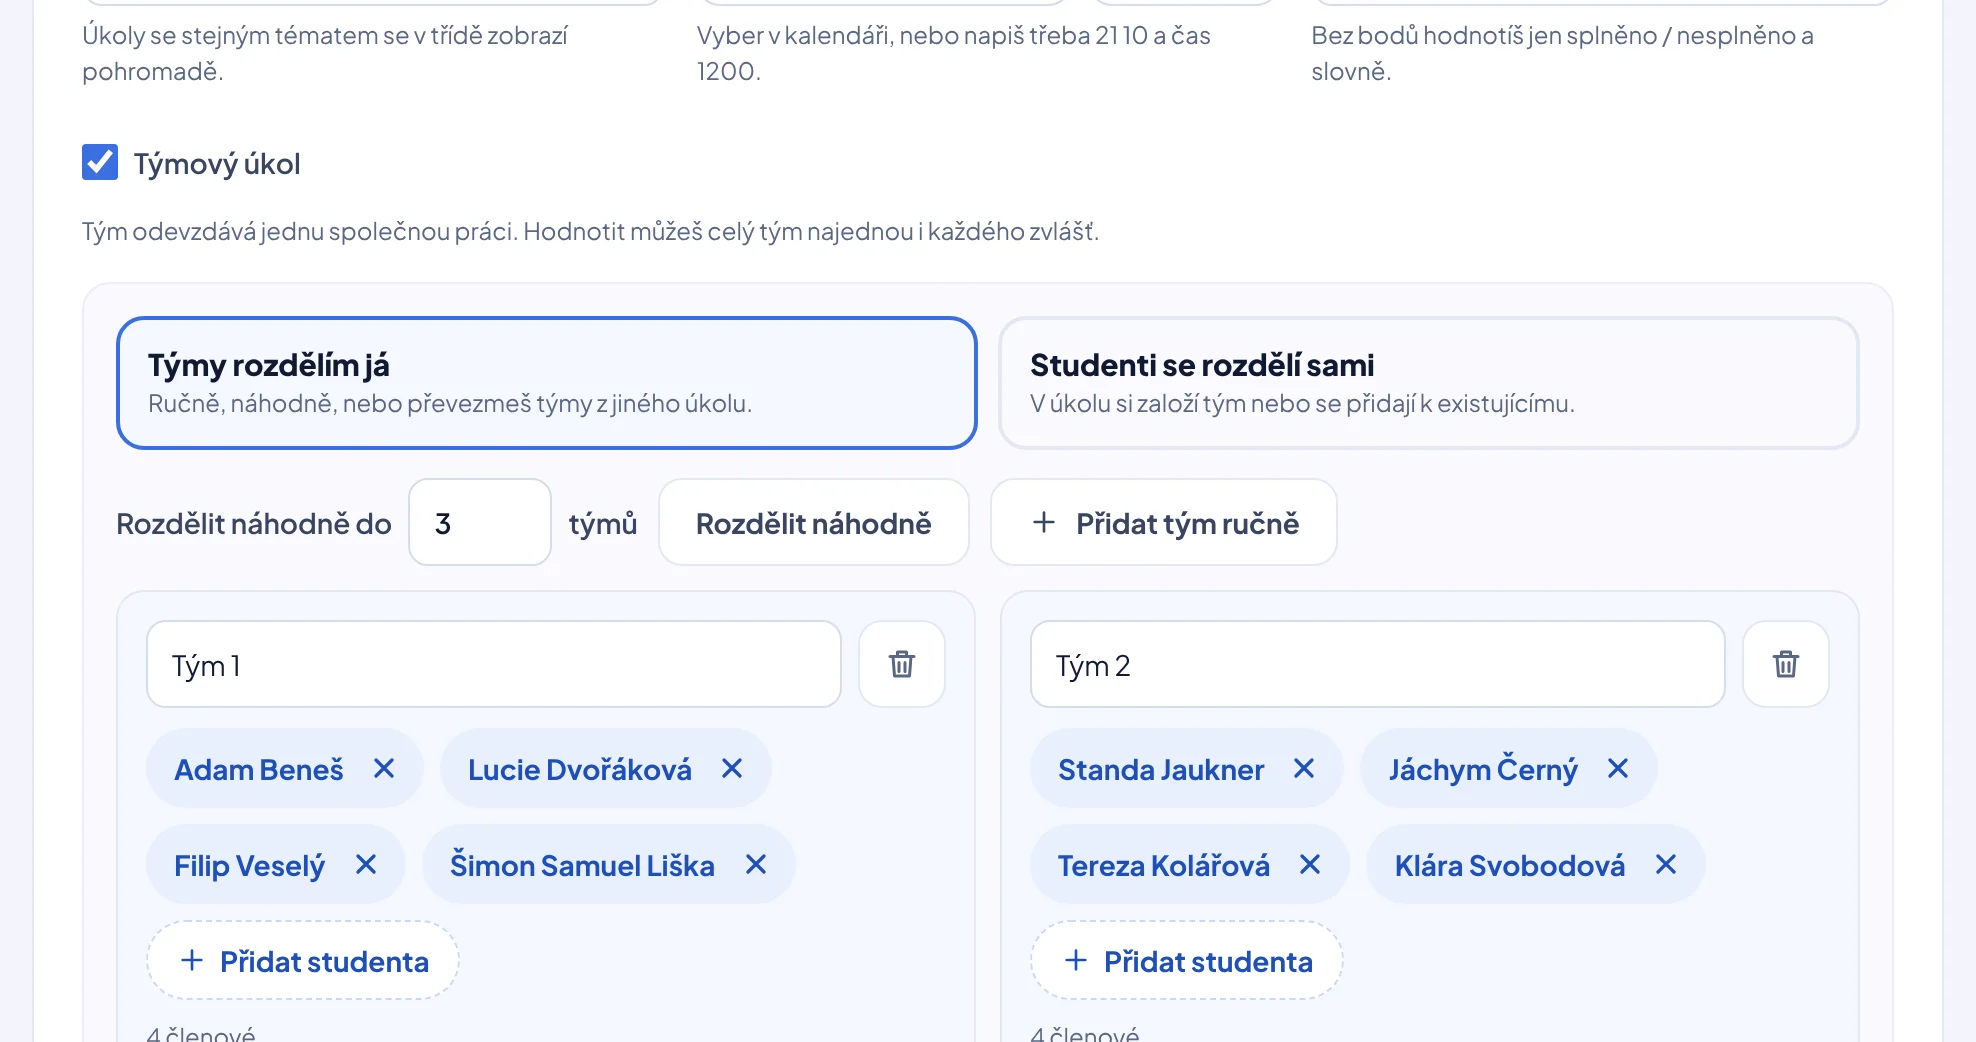
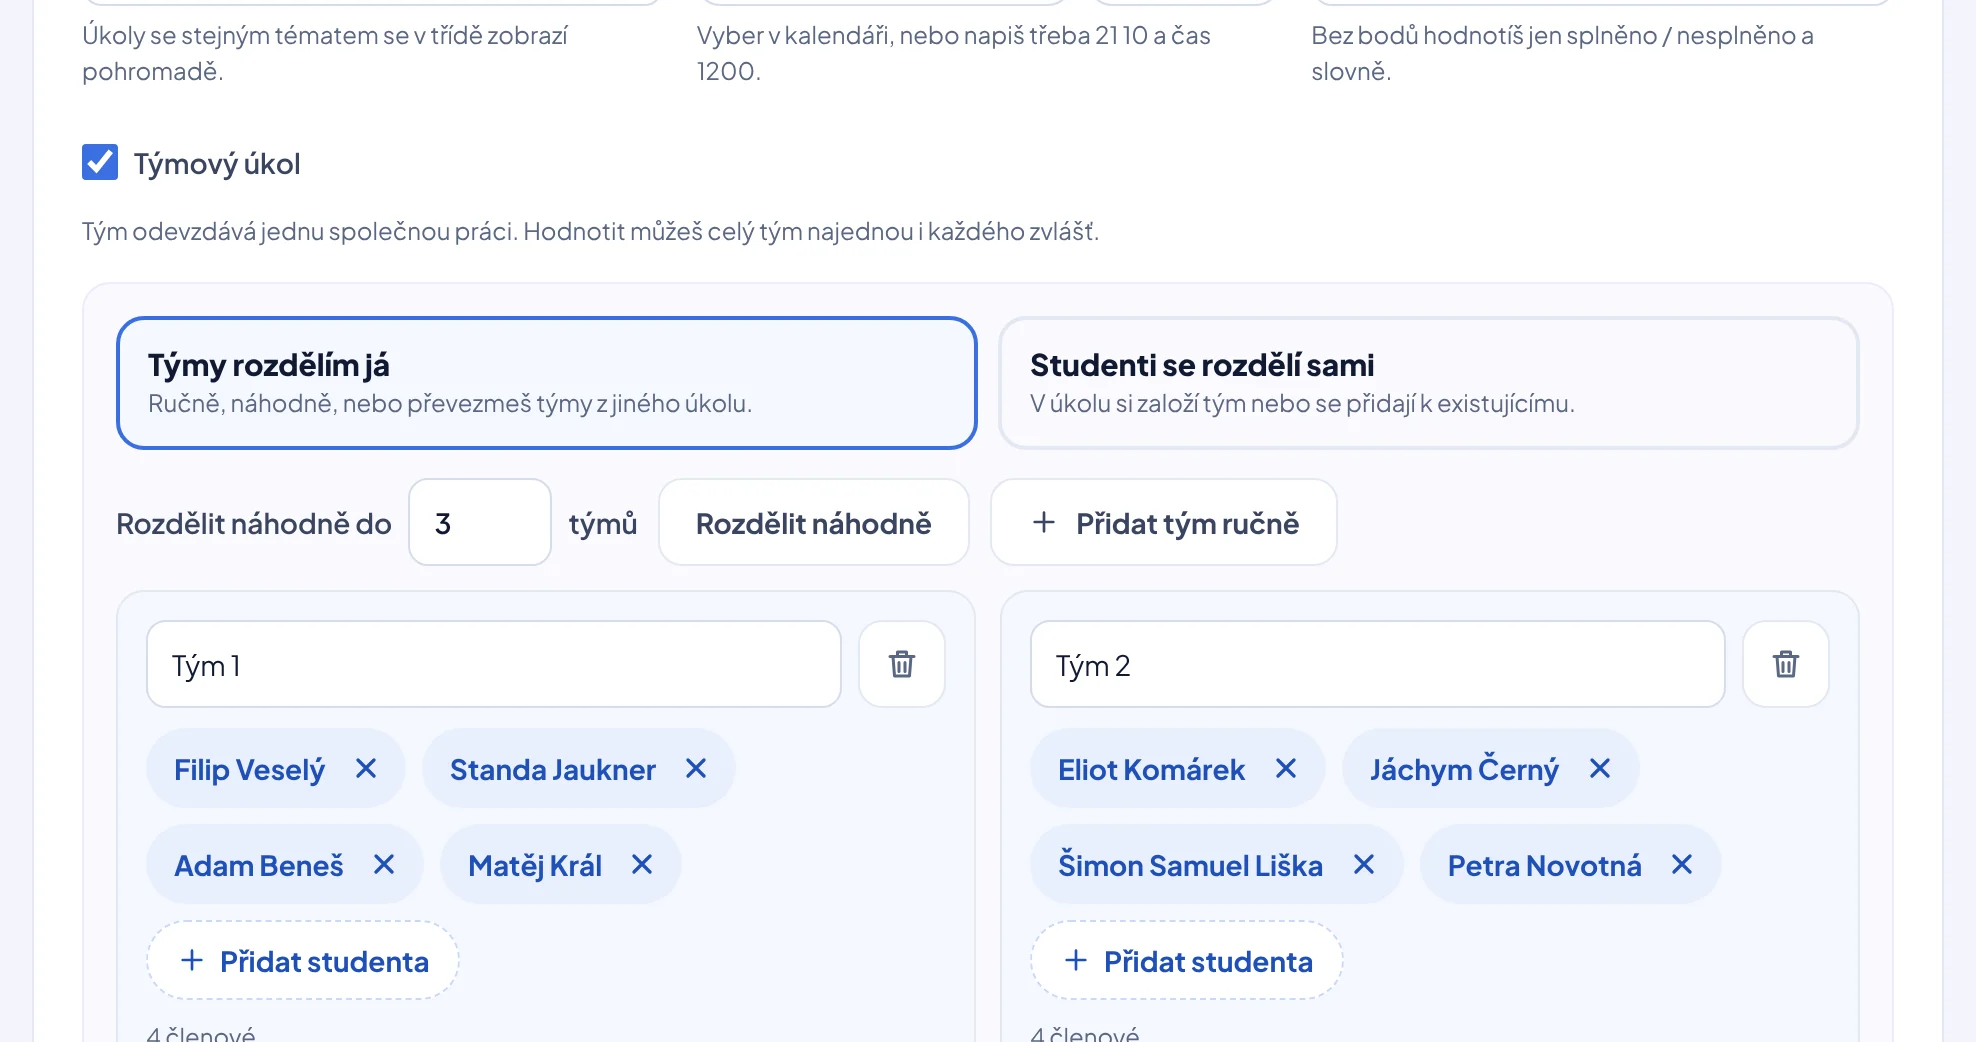
Nápověda: textové odkazy zvýrazněné jako zvýrazňovač pod textem, rámeček nezasahuje do okolí
Claude-Session: https://claude.ai/code/session_01S4k3G4RvgMHKPCyowCDzNN

diff --git a/scripts/help-shots.ts b/scripts/help-shots.ts
@@ -29,7 +29,7 @@ export type ShotFrames = {
   /** 0 = před akcí, další = psaní nebo stav po kliknutí */
   frames: string[];
   /** Prvek v procentech výřezu */
-  target: { x: number; y: number; w: number; h: number; r?: number } | null;
+  target: { x: number; y: number; w: number; h: number; r?: number; bare?: boolean } | null;
   action: "click" | "point" | "type" | "select" | "none";
   /** Psaní: text a vzhled obsahu pole, prohlížeč ho pak dopisuje po písmenech */
   typing?: HelpTyping;
@@ -131,7 +131,22 @@ async function shoot(page: Page, slug: string, index: number, shot: HelpShot): P
   let areaBox = (await area.boundingBox())!;
   const tBox = target ? await target.boundingBox() : null;
   // Zaoblení prvku, ať zvýraznění sedí přesně na jeho okraji.
-  const tRadius = target ? await target.evaluate((el) => parseFloat(getComputedStyle(el).borderTopLeftRadius) || 0) : 0;
+  // Prvek bez vlastního rámečku a pozadí (textový odkaz): místo rámečku zvýrazňovač pod textem.
+  const tStyle = target
+    ? await target.evaluate((el) => {
+        const cs = getComputedStyle(el);
+        const plain = !(parseFloat(cs.borderTopWidth) > 0) && /rgba\(0, 0, 0, 0\)|transparent/.test(cs.backgroundColor);
+        // Jen textový odkaz nebo tlačítko vzhledu odkazu (ne ikona, ne řádek seznamu, ne pole formuláře).
+        const textual =
+          (el.textContent ?? "").trim().length > 0 &&
+          !el.querySelector("input, select, textarea, svg, img") &&
+          el.getBoundingClientRect().height < 48;
+        const bare = plain && textual;
+        return { radius: parseFloat(cs.borderTopLeftRadius) || 0, bare };
+      })
+    : { radius: 0, bare: false };
+  const tPad = tStyle.bare ? 2 : 0;
+  const tRadius = tStyle.bare ? 4 : tStyle.radius;
 
   // Snímky celé obrazovky; výřez se spočítá z oblasti před i po akci (rozbalení).
   const shots = [await grab(page)];
@@ -204,11 +219,12 @@ async function shoot(page: Page, slug: string, index: number, shot: HelpShot): P
   }
   const rel = tBox
     ? {
-        x: (tBox.x - clip.x) / clip.width,
-        y: (tBox.y - clip.y) / clip.height,
-        w: tBox.width / clip.width,
-        h: tBox.height / clip.height,
+        x: (tBox.x - tPad - clip.x) / clip.width,
+        y: (tBox.y - tPad - clip.y) / clip.height,
+        w: (tBox.width + tPad * 2) / clip.width,
+        h: (tBox.height + tPad * 2) / clip.height,
         r: tRadius / clip.width,
+        ...(tStyle.bare ? { bare: true } : {}),
       }
     : null;
   const typing: HelpTyping | undefined = rawTyping

diff --git a/src/lib/help/shots.ts b/src/lib/help/shots.ts
@@ -8,8 +8,8 @@ export type HelpShotData = {
   /** 0 = před akcí, další = psaní nebo stav po kliknutí */
   frames: string[];
   /** Prvek v podílech výřezu (0–1) */
-  /** r = zaoblení rohů v podílech šířky výřezu */
-  target: { x: number; y: number; w: number; h: number; r?: number } | null;
+  /** r = zaoblení rohů v podílech šířky výřezu; bare = textový odkaz (zvýrazňovač místo rámečku) */
+  target: { x: number; y: number; w: number; h: number; r?: number; bare?: boolean } | null;
   action: "click" | "point" | "type" | "select" | "none";
   /** Psaní: obsah pole v podílech výřezu, písmo v podílech šířky výřezu */
   typing?: {

diff --git a/src/components/help/help.module.css b/src/components/help/help.module.css
@@ -361,6 +361,20 @@
   opacity: 1;
   animation: ringPulse 1.6s ease-out 0.3s infinite;
 }
+/* Textový odkaz: průsvitný zvýrazňovač pod textem, nic nepřesahuje do okolí */
+.ring[data-bare] {
+  box-shadow: none;
+  background: rgba(59, 111, 224, 0.2);
+  border-bottom: 2px solid #3b6fe0;
+}
+.ring[data-bare][data-on] {
+  animation: markPulse 1.6s ease-in-out 0.3s infinite;
+}
+@keyframes markPulse {
+  50% {
+    background: rgba(59, 111, 224, 0.32);
+  }
+}
 .cursor {
   position: absolute;
   width: 26px;

diff --git a/src/components/help/HelpShot.tsx b/src/components/help/HelpShot.tsx
@@ -157,6 +157,7 @@ export function HelpShot({ shot, label }: { shot: HelpShotData; label: string })
         {t && (
           <span
             className={styles.ring}
+            data-bare={t.bare || undefined}
             data-on={showRing || undefined}
             data-press={phase === "press" || undefined}
             style={{

diff --git a/CLAUDE.md b/CLAUDE.md
@@ -107,4 +107,4 @@
 - Ankety ve skupinových chatech Zpráv (i v Campu): v nabídce „+“ položka Anketa (`ComposerPlus` prop `onPoll`, jen ve skupině) → `PollComposer` nad polem (otázka, 2–10 možností, „Jde vybrat víc možností“). RPC `create_chat_poll(conversation, question, options[], multiple)` založí zprávu „📊 otázka“ (náhled, notifikace) a k ní `chat_polls` (+ `chat_poll_options`); hlas `vote_chat_poll(poll, choices[])` nahradí moje volby (prázdné = zrušit), `close_chat_poll(poll, closed)` autor, správce skupiny, v Campu vyučující a admin. Hlasy `chat_poll_votes` (s `conversation_id` pro RLS a Realtime filtr), jména hlasujících vidí členové (title u možnosti). Smazaná zpráva s anketou anketu smaže (trigger `drop_poll_of_deleted`). Karta `PollCard` v `src/components/messages/Poll.tsx`, výpočty `src/lib/polls.ts`, prohlížeč `src/lib/poll-client.ts` (`usePollLive`), načítání `conversationPolls` v `data-communication.ts`. Ukázková anketa ve skupině `k-skupina`.
 - Odznaky (studenti i vyučující/admini — `badge_levels.audience` student/staff/all, v TS `audience` + `badgeForRole`; společné: Vítej, Zakladatel, Hlas školy, Iniciátor, Měním školu, Snílek, Anketář; učitelské v kategorii Výuka: Mentor = ohodnocené práce, Průvodce = vedené expedice, Mistr dílny = vedené ateliéry, Konzultant = vedené konzultace): katalog `src/lib/badges.ts` (názvy, popisy, ikony, kategorie Start/Učení/Dobrodružství/Komunita/Tajné, úrovně — musí sedět s tabulkou `badge_levels`), získané `user_badges` (úroveň 1–3, `seen_at` = viděná animace), vystavené `profiles.shown_badges` (max 3). Hodnoty počítá `badge_values(person)` (odevzdané, včas, plný počet, týmové, „druhý dech“ přes `review_returns` z triggeru na `reviews`, expedice/ateliéry podle `activity_ends_on`, různí vyučující kurzů, hlasy v návrzích, návrhy s prahem / schválené, vypsaná přání, konzultace, vyplněný profil, Zakladatel do 30. 6. 2027, Spolehlivý = skončené pololetí s ≥3 úkoly a vším „splněno“, Anketář = anketa s 20+ hlasujícími, Na vlně = 4 týdny v řadě vše včas). `refresh_my_badges()` přidá/zvýší (nikdy nesníží), pošle oznámení druhu `odznak` (`/profil#odznaky`) a vrátí neviděné; volá ho `BadgeCelebration` v layoutu (při otevření, při přechodu stránek nejvýš 1× za minutu) → animace (bez rozmazání pozadí a `router.refresh()` až po zavření, jinak se seká; vyklopení, lesk, jiskry, fronta, „Vystavit na profil“ = akce `showBadge`, reduced motion = jen objevení). `my_badges()` = sbírka s postupem (`BadgeCollection` ve vlastním profilu, `#odznaky`), `set_shown_badges`, `shown_badges_of(person)` (ostatní vidí jen vystavené, `ShownBadges` na kartě profilu — jen ikony, název, úroveň a popis v bublině při najetí, fokusu nebo klepnutí). Data `src/lib/data-badges.ts`, akce `src/lib/actions/badges.ts`, SVG `src/components/badges/BadgeIcon.tsx`, ukázková data `src/lib/demo-badges.ts` (animace v ukázce jednou za prohlížeč, `localStorage`).
 - Wrap „Tvůj rok v Campu“ (jako Spotify Wrapped, zvlášť pro studenty a pro vyučující/adminy): příběh ze snímků `WrapStory` (`src/components/wrap/`; telefon přes celou obrazovku, klepnutí vpravo/vlevo, podržení = pauza; počítač příběh uprostřed se šipkami a klávesami ← → mezerník Esc; snímek se přepne koncem animace ukazatele). Snímky bez dat se vynechají (`buildSlides` v `src/lib/wrap.ts`). Typ v Campu (`WRAP_TYPES`: studenti Výpravník, Tvůrce, Snílek, Hlas školy, Zvídavec, Pracant, Parťák, výchozí Táborník; vyučující Průvodce, Mistr dílny, Konzultant, Mentor, Hybatel, Architekt, Spojka, výchozí Opora Campu) určuje DB `wrap_type`: oblast, ve které člověk nejvíc předběhl ostatní ze své skupiny (`beat` ≥ 0,5; ukazatele `wrap_student_values` / `wrap_staff_values`). Poslední snímek = karta typu, „Uložit kartu“ ji nakreslí na canvas 1080×1350 (`src/lib/wrap-card.ts`; na telefonu sdílení, jinak stažení). Data `wrap_data()` od 1. 9. do teď (jen když wrap běží, admin vždy), stav `wrap_state()` (`wrap_settings.launch_at` — výchozí 20. 6. 8:00, `wrap_trials` zkouška jen na adminovi, `wrap_views` viděno v daném roce). Po spuštění se jednou sám otevře (`WrapLauncher` v layoutu), pak 14 dní pruh v profilu (`WrapBanner`). Správa → záložka Nástroje (`?tab=nastroje`, dřív Úložiště): `WrapTools` (datum spuštění, Přehrát můj wrap, ukázky pro studenta a učitele, Vyzkoušet spuštění na mně) a `StorageManager`. Akce `src/lib/actions/wrap.ts`, data `src/lib/data-wrap.ts` (ukázkový režim drží stav v cookie `sciocamp-demo-wrap`), ukázková data `src/lib/demo-wrap.ts`. Barvy příběhu jsou natvrdo (stejné ve světlém i tmavém režimu).
-- Nápověda (`/napoveda`, návod `/napoveda/[slug]`; ikona otazníku dole v menu vedle Nastavení): návody podle role (`audience` all/staff/admin, `guidesFor`) v `src/lib/help/guides.ts` — téma, kroky (nadpis, text) a u každého kroku `shot` = recept pro skript: stránka, oblast výřezu, cílový prvek (Playwright lokátor), akce klik/psaní/výběr/ukázat, `after` = snímek po kliknutí. Snímky vyrábí `npm run napoveda:snimky` (`scripts/help-shots.ts`, Playwright + sharp; aplikace musí běžet v ukázkovém režimu, adresa `NAPOVEDA_URL`, jeden návod `-- <slug>`): projde skutečný postup ukázkovým účtem, fotí celou obrazovku, výřez spočítá z oblasti před i po akci, poznámky „ukázkový režim“ ze snímků odstraní, uloží `public/napoveda/<slug>/<krok>-<n>.webp` (2×) a souřadnice do `src/lib/help/shots.json` (`shotFor`, `coverFor`). Po změně vzhledu nebo postupu, který návod ukazuje, snímky přegenerovat. Přehrávač `HelpShot` (`src/components/help/`): kurzor dojede k prvku, rámeček přesně na okraji prvku s pulzující září, vlnka kliknutí, prolnutí na stav potom, při psaní snímek s hotovým textem a nad ním překryv `typing` (souřadnice a písmo pole ze skriptu), ve kterém se text píše po písmenech s kurzorem; dokola, jen když je krok vidět; reduced motion = výsledný snímek. Přehled `HelpIndex` s hledáním (náhled snímku na barevném podkladu a štítek `AudienceChip`: Všichni zeleně, Učitelé fialově, Admin modře), návody i v hledání na Domově (druh `help`). „Pomohl ti návod?“ → tabulka `help_feedback` (jedna odpověď na člověka a návod, admin vidí souhrn ve Správě → Nástroje, `HelpFeedbackTable`), akce `saveHelpFeedback`, data `src/lib/data-help.ts`.
+- Nápověda (`/napoveda`, návod `/napoveda/[slug]`; ikona otazníku dole v menu vedle Nastavení): návody podle role (`audience` all/staff/admin, `guidesFor`) v `src/lib/help/guides.ts` — téma, kroky (nadpis, text) a u každého kroku `shot` = recept pro skript: stránka, oblast výřezu, cílový prvek (Playwright lokátor), akce klik/psaní/výběr/ukázat, `after` = snímek po kliknutí. Snímky vyrábí `npm run napoveda:snimky` (`scripts/help-shots.ts`, Playwright + sharp; aplikace musí běžet v ukázkovém režimu, adresa `NAPOVEDA_URL`, jeden návod `-- <slug>`): projde skutečný postup ukázkovým účtem, fotí celou obrazovku, výřez spočítá z oblasti před i po akci, poznámky „ukázkový režim“ ze snímků odstraní, uloží `public/napoveda/<slug>/<krok>-<n>.webp` (2×) a souřadnice do `src/lib/help/shots.json` (`shotFor`, `coverFor`). Po změně vzhledu nebo postupu, který návod ukazuje, snímky přegenerovat. Přehrávač `HelpShot` (`src/components/help/`): kurzor dojede k prvku, rámeček přesně na okraji prvku s pulzující září (u textových odkazů bez rámečku `bare` průsvitný zvýrazňovač pod textem), vlnka kliknutí, prolnutí na stav potom, při psaní snímek s hotovým textem a nad ním překryv `typing` (souřadnice a písmo pole ze skriptu), ve kterém se text píše po písmenech s kurzorem; dokola, jen když je krok vidět; reduced motion = výsledný snímek. Přehled `HelpIndex` s hledáním (náhled snímku na barevném podkladu a štítek `AudienceChip`: Všichni zeleně, Učitelé fialově, Admin modře), návody i v hledání na Domově (druh `help`). „Pomohl ti návod?“ → tabulka `help_feedback` (jedna odpověď na člověka a návod, admin vidí souhrn ve Správě → Nástroje, `HelpFeedbackTable`), akce `saveHelpFeedback`, data `src/lib/data-help.ts`.
